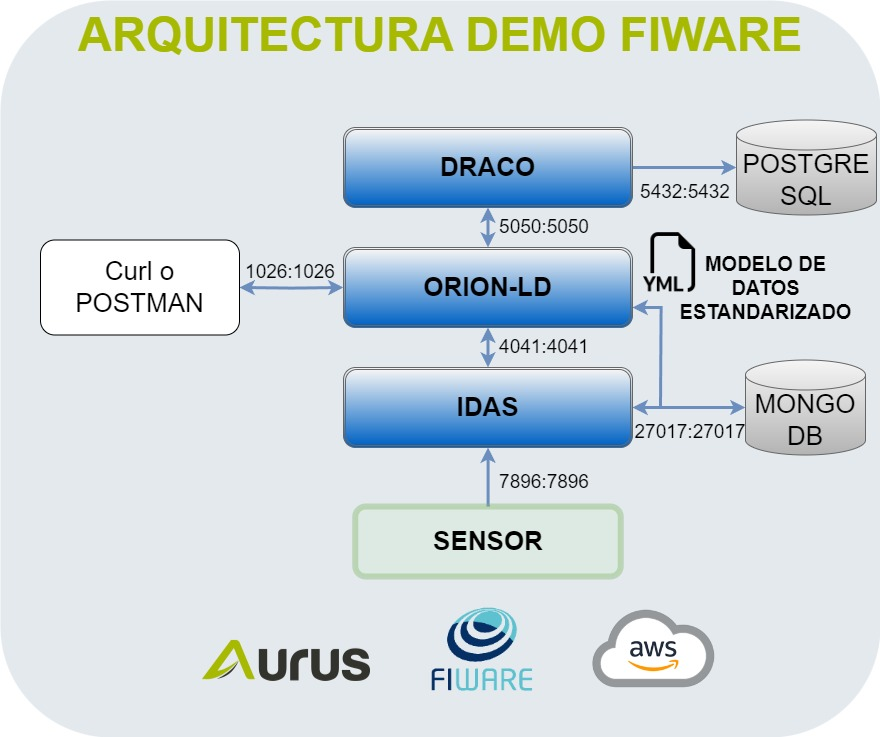
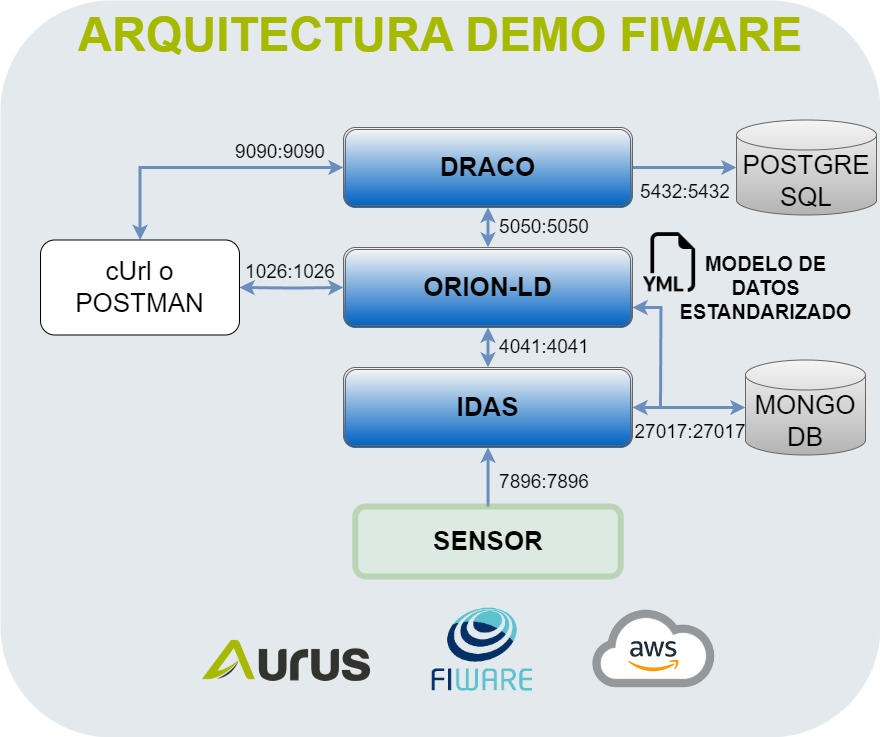
Added Postgresql and images
Agregar PostgreSQL
Modificar Arquitectura
Agregar Puertos en EC2

diff --git a/README.md b/README.md
@@ -1,11 +1,13 @@
 # FIWARE Demo Repository
 
-Este repositorio contiene un proyecto de demostración que muestra las capacidades de FIWARE. Los usuarios pueden configurar fácilmente los servicios de FIWARE utilizando contenedores Docker. Los servicios incluidos en esta demo son Orion-ld, IoT Agent for JSON, Draco y una base de datos MongoDB. La demo simula una granja con su campo siendo monitoreado por un dispositivo equipado con sensores de temperatura y humedad.
+Este repositorio contiene un proyecto de demostración que muestra las capacidades de FIWARE presentado en el evento AWS UG Conf 2023. Los usuarios pueden desplegar fácilmente los servicios de FIWARE utilizando contenedores Docker. Los servicios incluidos en esta demo son Orion-ld, IoT Agent for JSON, Draco, una base de datos MongoDB y una PostgreSQL. La demo simula una granja con su campo siendo monitoreado por un dispositivo equipado con sensores de temperatura y humedad.
 
 ## Modelo de Datos
 
 El modelo de datos para este proyecto está representado en el siguiente diagrama:
+
 ![Model diagram](images/Model_diagram.jpg)
+
 Este diagrama incluye las siguientes entidades:
 
 - Organization: Almacena información sobre la empresa que gestiona la granja.
@@ -15,6 +17,32 @@ Este diagrama incluye las siguientes entidades:
 - AirQualityObserved: Contiene parámetros de calidad del aire para el área donde se encuentra la parcela, que se pueden obtener de fuentes externas.
 - Device: Representa el dispositivo de monitoreo responsable de medir la temperatura y la humedad en las parcelas.
 - Sensor: Se refiere al sensor de temperatura o humedad.
+
+Los modelos de datos abiertos elegidos para esta demo son los siguientes:
+
+[https://raw.githubusercontent.com/smart-data-models/dataModel.Device/master/context.jsonld](https://raw.githubusercontent.com/smart-data-models/dataModel.Device/master/context.jsonld)
+[https://raw.githubusercontent.com/smart-data-models/dataModel.Environment/master/context.jsonld](https://raw.githubusercontent.com/smart-data-models/dataModel.Environment/master/context.jsonld)
+[https://raw.githubusercontent.com/smart-data-models/dataModel.OCF/master/context.jsonld](https://raw.githubusercontent.com/smart-data-models/dataModel.OCF/master/context.jsonld)
+[https://raw.githubusercontent.com/smart-data-models/dataModel.Agrifood/master/context.jsonld](https://raw.githubusercontent.com/smart-data-models/dataModel.Agrifood/master/context.jsonld)
+[https://raw.githubusercontent.com/smart-data-models/dataModel.Organization/master/context.jsonld](https://raw.githubusercontent.com/smart-data-models/dataModel.Organization/master/context.jsonld)
+[https://raw.githubusercontent.com/smart-data-models/dataModel.SAREF/master/context.jsonld](https://raw.githubusercontent.com/smart-data-models/dataModel.SAREF/master/context.jsonld)
+
+Estos modelos de datos se agregan en la sección __iot-agent__ del archivo __docker-compose.yml__
+
+## Arquitectura
+
+La arquitectura de los componentes de FIWARE para esta demo está representado en el siguiente diagrama:
+
+![Model diagram](images/Arquitectura_fiware.jpg)
+
+Esta arquitectura está conformada por:
+
+- ORION-LD: Componente principal de toda plataforma Powered by Fiware. Se encarga de la gestión de las Entidades, relaciones y se conecta a todos los demás componentes de manera estandarizada por NGSI-LD. Usa una base de datos MongoDB. Este componente es administrado por el puerto 1026.
+- IDAS: También llamado IoT Agent. Para esta demo se utiliza el tipo Json. Este componente se encarga de traducir una trama Json al estándar NGSI-LD para que pueda ser interpretada por ORION-LD. Usa una base de datos MongoDB. Este componente es administrado por el puerto 4041 y recibe la trama Json de los dispositivos por el puerto 7896.
+- DRACO: Es el componente que permite conectarse a una base de datos de históricos, ya que ORION-LD solo almacena valores instáneos. Para la demo se conecta a una BD PostgreSQL por el puerto 5432. Este contenedor usa los puertos 5050 para suscribirse a ORION-LD y 9090 para la UI de configuración de la base de datos.
+- SENSOR: Es el dispositivo que envía los datos de los sensores al IDAS en formato JSON, puede ser uno o varios sensores y, para esta demo, enviará los datos por el protocolo http.
+- POSTGRESQL: Almacena los datos históricos en una tabla del mismo nombre que la entidad, en este caso Sensor.
+- MONGODB: Base de datos en donde se almacena toda la información de ORION-LD y el IDAS. Normalmente no se interactúa con esta base de datos. Acepta conexiones por el puerto 27017.
 
 ## Requisitos Previos
 
@@ -37,7 +65,7 @@ Para configurar y ejecutar la demo, siga estos pasos:
    ```bash
    sudo su
    ```
-4. Ejecute el script de instalación:
+4. Ejecute el script de instalación (Instalará Docker):
    ```bash
    bash installation.sh
    ```
